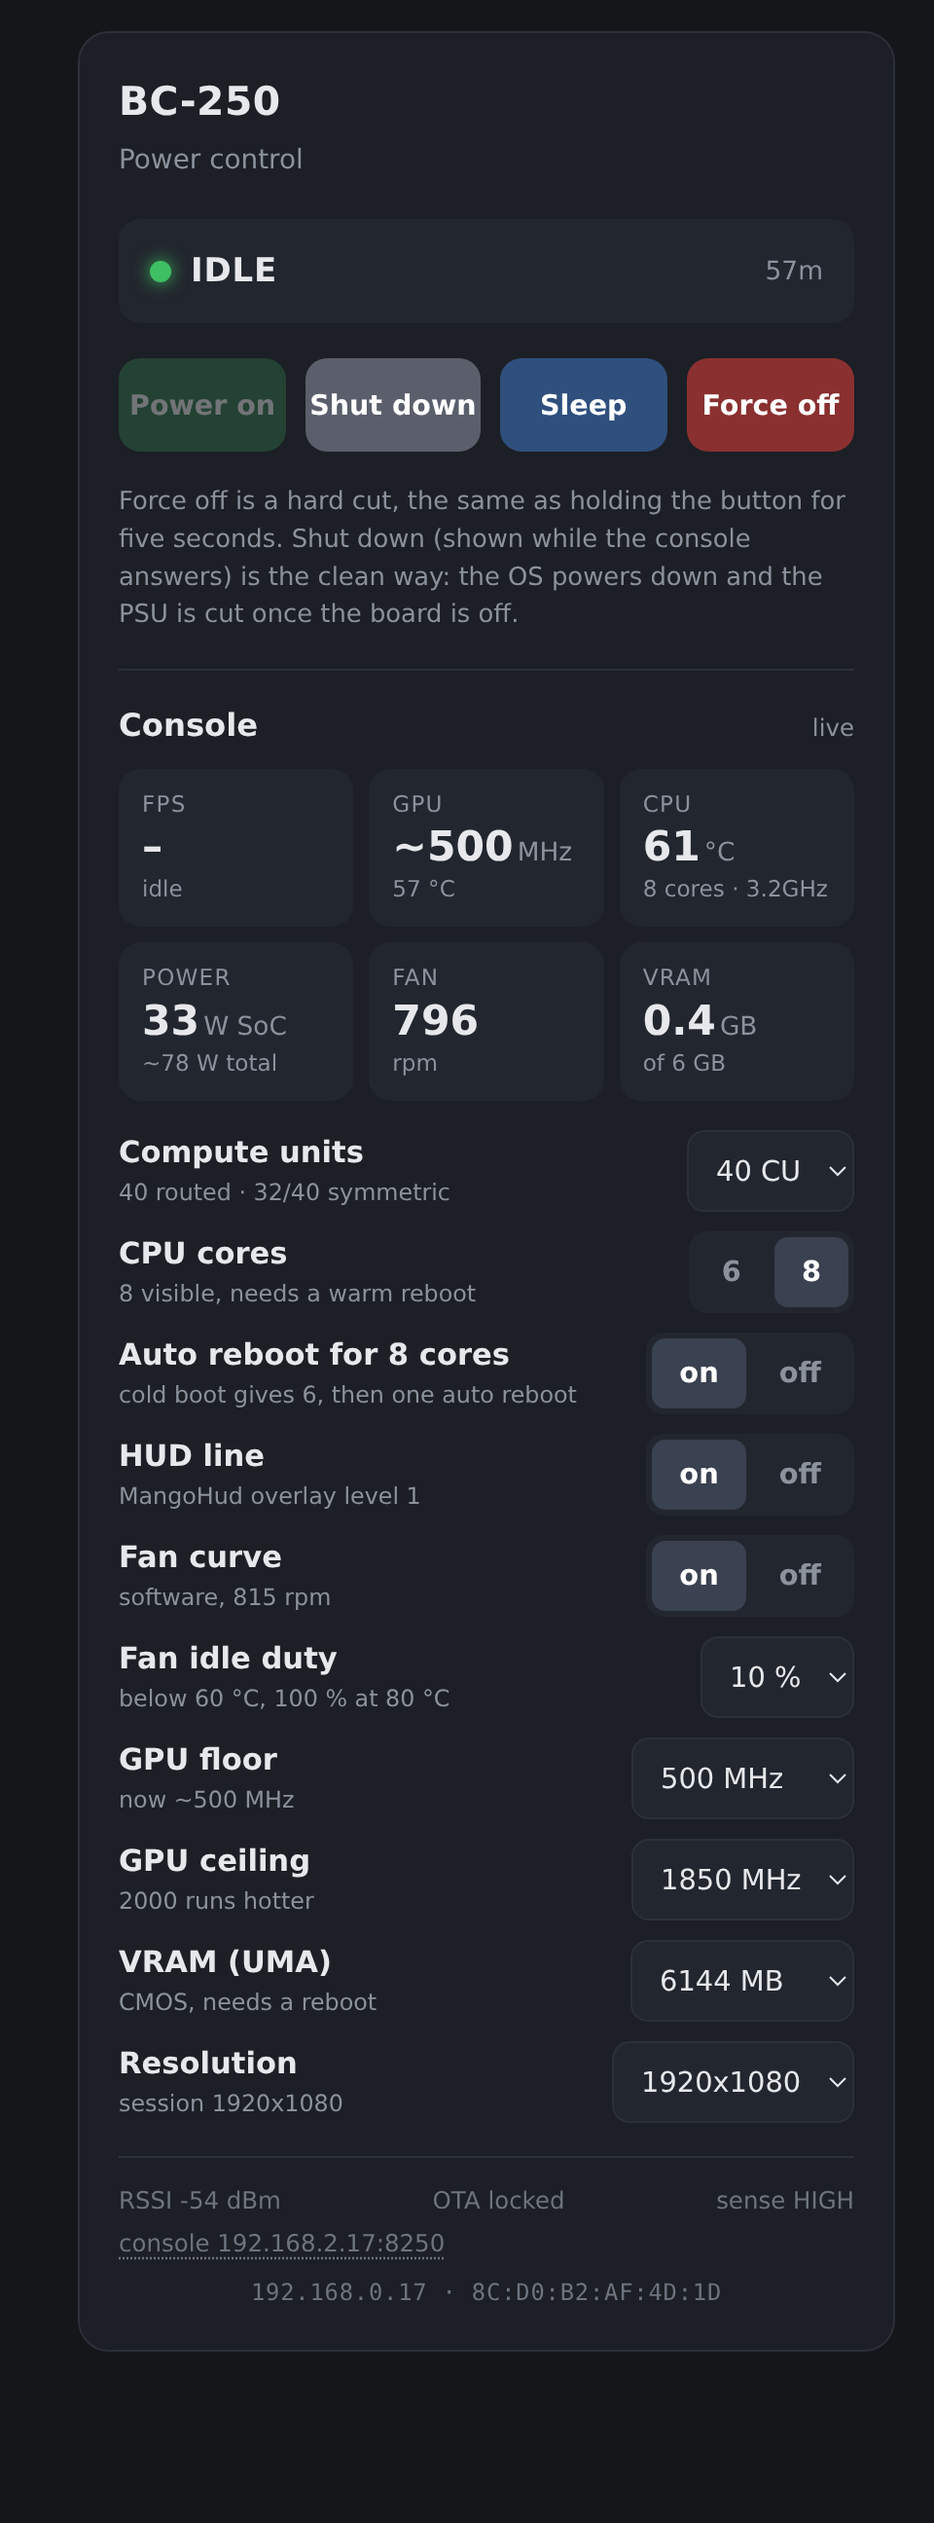
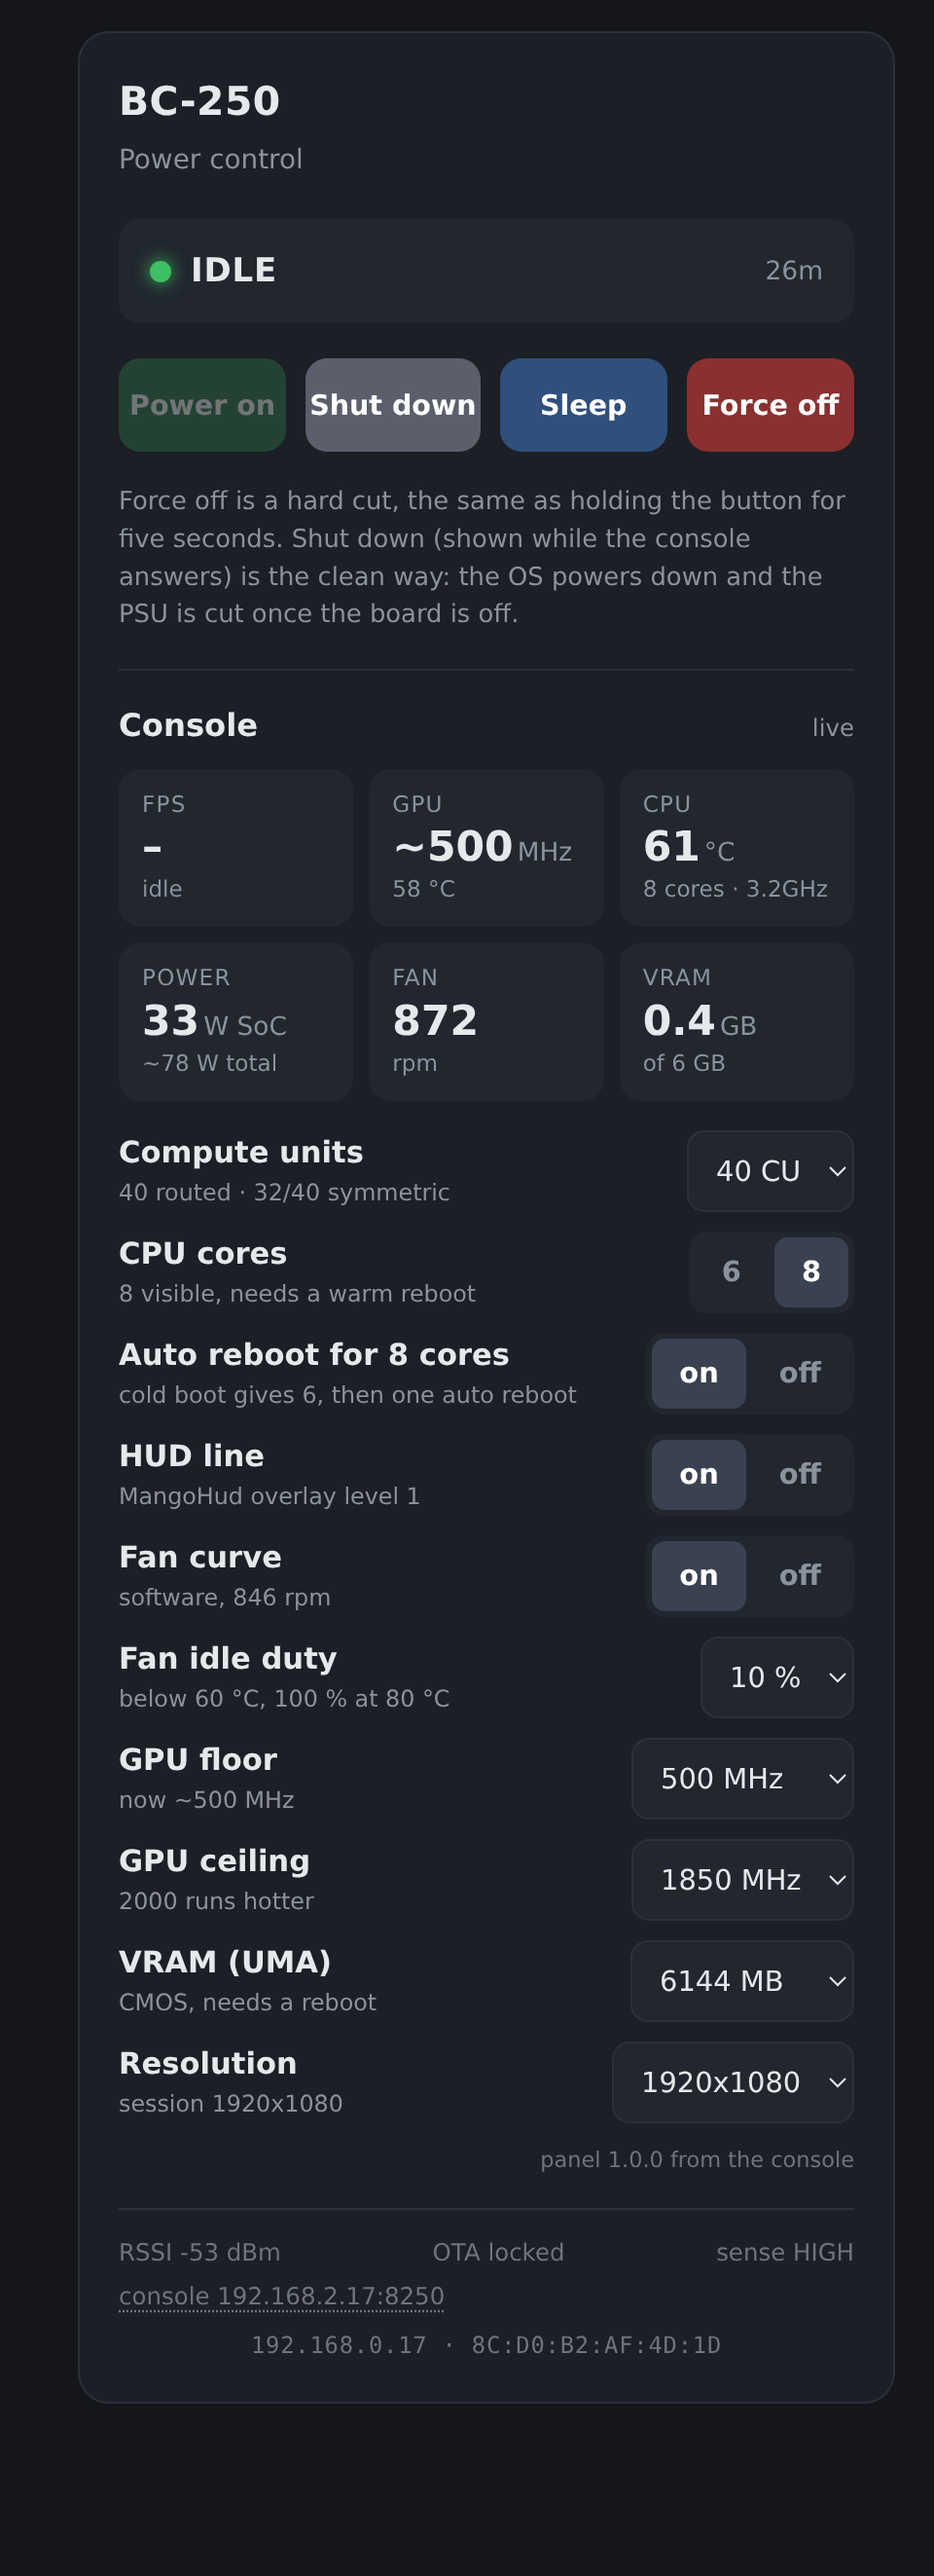
ESP32 page: the console panel is served by bc250-api (panel.js), no reflash for panel changes
Everything below the "Console" header (tiles, pending notice, tune switches) moves out of the
sketch into bc250-api/panel.js, served at GET /panel.js (installed to /usr/local/share/bc250-api
by install.sh) and loaded by the page once the API answers. Contract: bc250Panel.mount(root,
{api, refresh}) -> {update(status), busy(bool)}, documented in bc250-api/README.md. The firmware
keeps the state row, the four buttons, the address editor and the offline notice, and shows a
notice if the API has no panel.js yet. The panel prints its version in its last line.

Verified on the real ESP32 after an OTA: the page loads the panel from the console and renders
the same tiles and switches as before. Sketch page shrinks from ~13 KB to ~10 KB.

diff --git a/bc250-api/panel.js b/bc250-api/panel.js
@@ -1,0 +1,153 @@
+/* bc250-api console panel — served by bc250-api at /panel.js and loaded by the ESP32 power page
+ * once the API answers, so this part of the page updates with the console, not with a reflash.
+ *
+ * Contract with the page (keep it stable; the firmware only knows this):
+ *   window.bc250Panel.version                 string
+ *   window.bc250Panel.mount(root, opts) -> p  root: element to render into
+ *                                             opts.api: base URL of bc250-api (no trailing slash)
+ *                                             opts.refresh(): ask the page to poll /api/status now
+ *   p.update(status)                          called after every successful /api/status poll
+ *   p.busy(bool)                              page-level busy (sleep/shutdown in flight)
+ * The page keeps: state row, Power on / Shut down / Sleep / Force off, the address editor and the
+ * offline notice. Everything below the "Console" header is this file. No "//" restriction here.
+ */
+(function () {
+  'use strict';
+  var VERSION = '1.0.0';
+  var CSS = [
+    '.p-tiles{display:grid;grid-template-columns:repeat(auto-fit,minmax(104px,1fr));gap:8px}',
+    '.p-tile{background:#22262e;border-radius:11px;padding:10px 12px;min-width:0}',
+    '.p-tile .k{color:#8b929c;font-size:.68em;text-transform:uppercase;letter-spacing:.6px}',
+    '.p-tile .v{font-size:1.25em;font-weight:600;line-height:1.25;white-space:nowrap;overflow:hidden;text-overflow:ellipsis;font-variant-numeric:tabular-nums}',
+    '.p-tile .v small{font-size:.62em;font-weight:500;color:#8b929c;margin-left:2px}',
+    '.p-tile .s{color:#8b929c;font-size:.68em;white-space:nowrap;overflow:hidden;text-overflow:ellipsis}',
+    '.p-pend{display:none;margin:12px 0 0;padding:10px 12px;border-radius:11px;background:#3a2f16;color:#f0c674;font-size:.8em}',
+    '.p-pend.show{display:block}.p-pend .b{display:grid;gap:8px;margin-top:8px;grid-template-columns:repeat(auto-fit,minmax(140px,1fr))}',
+    '.p-pend button{width:100%;min-height:40px;padding:8px 12px;border:0;border-radius:11px;background:#6b5420;color:#fff;font:inherit;font-weight:600;font-size:.95em;cursor:pointer}',
+    '.p-tune{margin-top:14px;display:grid;grid-template-columns:minmax(0,1fr);gap:8px}',
+    '.p-row{display:flex;align-items:center;gap:10px;min-height:44px}.p-row .n{flex:1;min-width:0}',
+    '.p-row .n b{font-weight:600;font-size:.9em;display:block}',
+    '.p-row .n i{font-style:normal;color:#8b929c;font-size:.7em;display:block;white-space:nowrap;overflow:hidden;text-overflow:ellipsis}',
+    '.p-seg{display:flex;background:#22262e;border-radius:9px;padding:3px;gap:3px;flex:none}',
+    '.p-seg button{width:auto;min-height:36px;padding:6px 14px;border:0;border-radius:7px;background:transparent;color:#8b929c;font:inherit;font-weight:600;font-size:.85em;cursor:pointer}',
+    '.p-seg button.sel{background:#3a4150;color:#fff}',
+    '.p-tune select{flex:none;min-height:42px;padding:6px 10px;border:1px solid #2b3039;border-radius:9px;background:#22262e;color:#e6e8eb;font:inherit;font-size:.85em;max-width:48%}',
+    '.p-busy .p-tune,.p-busy .p-pend{opacity:.5;pointer-events:none}',
+    '.p-ver{margin-top:10px;color:#6d747e;font-size:.66em;text-align:right}'
+  ].join('\n');
+
+  var TILES = [
+    ['fps', 'FPS'], ['gmhz', 'GPU'], ['ctemp', 'CPU'], ['soc', 'Power'], ['fan', 'Fan'], ['vram', 'VRAM']
+  ];
+  var OPTS = {
+    cu: { n: 'Compute units', s: ['24', '26', '28', '30', '32', '34', '36', '38', '40'], u: ' CU', h: function (t) { return t.cu.live + ' routed · 32/40 symmetric'; } },
+    cores: { n: 'CPU cores', v: ['6', '8'], h: function (t) { return t.cores.visible + ' visible, needs a warm reboot'; } },
+    'cores-auto-reboot': { n: 'Auto reboot for 8 cores', v: ['on', 'off'], h: function () { return 'cold boot gives 6, then one auto reboot'; } },
+    hud: { n: 'HUD line', v: ['on', 'off'], h: function () { return 'MangoHud overlay level 1'; } },
+    'fan-curve': { n: 'Fan curve', v: ['on', 'off'], h: function (t) { return t.fan ? (t.fan.curve == 'on' ? (t.fan.active ? 'software, ' : 'guard stopped it, ') + t.fan.rpm + ' rpm' : 'BIOS curve, ' + t.fan.rpm + ' rpm') : 'no fan header'; } },
+    'fan-min': { n: 'Fan idle duty', s: ['5', '10', '15', '20', '30', '40'], u: ' %', h: function (t) { return t.fan ? 'below ' + t.fan.low_c + ' °C, 100 % at ' + t.fan.high_c + ' °C' : ''; } },
+    'gpu-min': { n: 'GPU floor', s: ['500', '700', '1000', '1175'], u: ' MHz', h: function (t) { return 'now ' + (t.gpu.cur_mhz_estimated ? '~' : '') + t.gpu.cur_mhz + ' MHz'; } },
+    'gpu-max': { n: 'GPU ceiling', s: ['1500', '1700', '1850', '2000'], u: ' MHz', h: function () { return '2000 runs hotter'; } },
+    uma: { n: 'VRAM (UMA)', s: ['2048', '4096', '6144', '8192', '10240', '12288'], u: ' MB', h: function () { return 'CMOS, needs a reboot'; } },
+    res: { n: 'Resolution', s: ['native', '1280x720', '1920x1080', '2560x1440', '3840x2160'], u: '', h: function (t) { return 'session ' + (t.res.session || '?'); } }
+  };
+  function cur(t, k) {
+    switch (k) {
+      case 'cu': return t.cu.config; case 'cores': return t.cores.config; case 'cores-auto-reboot': return t.cores.auto_reboot;
+      case 'hud': return t.hud.config; case 'fan-curve': return t.fan && t.fan.curve; case 'fan-min': return t.fan && t.fan.min;
+      case 'gpu-min': return t.gpu.config_min; case 'gpu-max': return t.gpu.config_max; case 'uma': return t.uma.config; case 'res': return t.res.config;
+    }
+  }
+  var fmt = function (v, d) { return v == null ? '–' : Number(v).toFixed(d || 0); };
+  var on = function (x) { return x && x !== '0' && x !== 0; };
+
+  function mount(root, opts) {
+    var api = opts.api, refresh = opts.refresh || function () {};
+    var busy = false, pageBusy = false, el = {};
+    if (!document.getElementById('bc250-panel-css')) {
+      var st = document.createElement('style'); st.id = 'bc250-panel-css'; st.textContent = CSS; document.head.appendChild(st);
+    }
+    root.innerHTML = '';
+    var tiles = document.createElement('div'); tiles.className = 'p-tiles';
+    TILES.forEach(function (t) {
+      var d = document.createElement('div'); d.className = 'p-tile';
+      d.innerHTML = '<div class="k">' + t[1] + '</div><div class="v" id="p-' + t[0] + '">–</div><div class="s" id="p-' + t[0] + 's"></div>';
+      tiles.appendChild(d);
+    });
+    var pend = document.createElement('div'); pend.className = 'p-pend';
+    pend.innerHTML = '<span id="p-pendt"></span><div class="b"><button id="p-rb">Warm reboot</button><button id="p-rs">Restart session</button></div>';
+    var tune = document.createElement('div'); tune.className = 'p-tune';
+    var ver = document.createElement('div'); ver.className = 'p-ver'; ver.textContent = 'panel ' + VERSION + ' from the console';
+    root.appendChild(tiles); root.appendChild(pend); root.appendChild(tune); root.appendChild(ver);
+    var $ = function (id) { return root.querySelector('#' + id); };
+
+    Object.keys(OPTS).forEach(function (k) {
+      var o = OPTS[k], row = document.createElement('div'); row.className = 'p-row';
+      row.innerHTML = '<div class="n"><b>' + o.n + '</b><i id="p-h-' + k + '"></i></div>';
+      if (o.v) {
+        var seg = document.createElement('div'); seg.className = 'p-seg'; seg.id = 'p-c-' + k;
+        o.v.forEach(function (v) { var b = document.createElement('button'); b.textContent = v; b.dataset.v = v; b.onclick = function () { set(k, v); }; seg.appendChild(b); });
+        row.appendChild(seg);
+      } else {
+        var sel = document.createElement('select'); sel.id = 'p-c-' + k;
+        o.s.forEach(function (v) { var e = document.createElement('option'); e.value = v; e.textContent = v + o.u; sel.appendChild(e); });
+        sel.onchange = function () { set(k, sel.value); }; row.appendChild(sel);
+      }
+      tune.appendChild(row);
+    });
+    $('p-rb').onclick = function () { act('/api/tune/reboot', 'Warm reboot the console now?'); };
+    $('p-rs').onclick = function () { act('/api/tune/restart-session', 'Restart the gaming session now? Steam will close.'); };
+
+    function setBusy(b) { busy = b; root.classList.toggle('p-busy', busy || pageBusy); }
+    function set(k, v) {
+      setBusy(true);
+      fetch(api + '/api/tune/set', { method: 'POST', headers: { 'Content-Type': 'application/json' }, body: JSON.stringify({ key: k, value: v }) })
+        .then(function (r) { return r.json(); }).then(function (j) { if (!j.ok) alert('bc250-tune: ' + (j.output || 'failed')); })
+        .catch(function () { alert('console unreachable'); })
+        .then(function () { setBusy(false); refresh(); });
+    }
+    function act(path, q) {
+      if (!confirm(q)) return; setBusy(true);
+      fetch(api + path, { method: 'POST' }).then(function (r) { return r.json(); }).then(function (j) { if (!j.ok) alert(j.output || 'failed'); })
+        .catch(function () {}).then(function () { setBusy(false); setTimeout(refresh, 3000); });
+    }
+    function tilesUpdate(d) {
+      $('p-fps').textContent = d.fps == null ? '–' : Math.round(d.fps);
+      $('p-fpss').textContent = d.game_running ? (d.game_running.name || 'app ' + d.game_running.appid) : (d.focus == 'steam' ? 'Steam' : 'idle');
+      $('p-gmhz').innerHTML = (d.gpu.mhz_estimated ? '~' : '') + fmt(d.gpu.mhz) + '<small>MHz</small>';
+      $('p-gmhzs').textContent = fmt(d.gpu.temp_c) + ' °C';
+      $('p-ctemp').innerHTML = fmt(d.cpu.temp_c) + '<small>°C</small>';
+      $('p-ctemps').textContent = d.cpu.cores + ' cores · ' + fmt(d.cpu.mhz / 1000, 1) + 'GHz';
+      $('p-soc').innerHTML = fmt(d.power.soc_w) + '<small>W SoC</small>';
+      $('p-socs').textContent = '~' + fmt(d.power.total_w) + ' W total';
+      $('p-fan').textContent = fmt(d.fan.rpm); $('p-fans').textContent = 'rpm';
+      $('p-vram').innerHTML = fmt(d.gpu.vram_used_mb / 1024, 1) + '<small>GB</small>';
+      $('p-vrams').textContent = 'of ' + fmt(d.gpu.vram_total_mb / 1024, 0) + ' GB';
+    }
+    function tuneUpdate(t) {
+      if (!t) { tune.style.display = 'none'; pend.className = 'p-pend'; return; }
+      tune.style.display = '';
+      if (busy) return;
+      Object.keys(OPTS).forEach(function (k) {
+        var o = OPTS[k], v = String(cur(t, k)), c = $('p-c-' + k);
+        $('p-h-' + k).textContent = o.h(t);
+        if (o.v) { Array.prototype.forEach.call(c.children, function (b) { b.className = b.dataset.v == v ? 'sel' : ''; }); }
+        else if (document.activeElement != c) {
+          if (!Array.prototype.some.call(c.options, function (e) { return e.value == v; })) { var e = document.createElement('option'); e.value = v; e.textContent = v + o.u; c.appendChild(e); }
+          c.value = v;
+        }
+      });
+      var p = t.pending || {}, parts = [];
+      if (on(p.reboot)) parts.push(String(p.reboot).replace(/;\s*$/, ''));
+      if (on(p.session_restart)) parts.push('gaming session restart (resolution)');
+      if (on(p.cold_boot)) parts.push('cold boot (power off) to return to 6 cores');
+      pend.className = 'p-pend' + (parts.length ? ' show' : ''); $('p-pendt').textContent = 'Pending: ' + parts.join(' · ');
+      $('p-rb').style.display = on(p.reboot) ? '' : 'none'; $('p-rs').style.display = on(p.session_restart) ? '' : 'none';
+    }
+    return {
+      update: function (d) { tilesUpdate(d); tuneUpdate(d.tune); },
+      busy: function (b) { pageBusy = !!b; root.classList.toggle('p-busy', busy || pageBusy); }
+    };
+  }
+  window.bc250Panel = { version: VERSION, mount: mount };
+})();

diff --git a/AGENTS.md b/AGENTS.md
@@ -11,7 +11,7 @@ depend on each other.
 | `decky-bc250-tune/bc250-tune` | one bash script: every tuning switch, the boot-time re-apply (`apply --boot`), the fan-curve daemon (`fan-daemon`), `status --json` | the console, as root |
 | `decky-bc250-tune/decky-plugin/` | Decky plugin that only calls `bc250-tune`; `src/index.tsx` → `dist/index.js` (committed) | the console |
 | `decky-bc250-sleep/` | Decky plugin: fake sleep, wake on input, quiet fans, control socket for the API; `main.py` + `src/index.tsx` → `dist/index.js` (committed) | the console |
-| `bc250-api/` | REST service (Python stdlib) on port 8250: stats, fps from gamescope's stats pipe, tune switches, sleep/wake | the console |
+| `bc250-api/` | REST service (Python stdlib) on port 8250: stats, fps from gamescope's stats pipe, tune switches, sleep/wake, poweroff; `panel.js` = the console part of the ESP32 page, served at `/panel.js` | the console |
 | `esp32-power-control/` | ESP32-C3 sketch (`bc250_power_opto.ino`, the web page is a raw string inside it) and `flash.sh` | the ESP32; `flash.sh` on a laptop |
 | `install.sh` | the `curl \| bash` guided installer | console or laptop |
 | `images/esp32-gui.png` | screenshot of the ESP32 page, embedded in the README | |
@@ -21,9 +21,14 @@ depend on each other.
 
 * **A switch touches five places.** Adding or changing a tune option means: the script (defaults,
   `load_conf`, `write_conf`, `validate_conf`, `cmd_set` keys, `cmd_apply`, the JSON and text status,
-  the whiptail menu, `VERSION`), the Decky plugin (`index.tsx`, then rebuild `dist/index.js`), the ESP32
-  page (`OPTS` and `cur()` in the sketch), `bc250-api` (`TUNE_KEYS` and `VALUE_OK`), and the docs
-  (the switch tables in `README.md` and `decky-bc250-tune/README.md`). Then the screenshot.
+  the whiptail menu, `VERSION`), the Decky plugin (`index.tsx`, then rebuild `dist/index.js`), the
+  console panel (`OPTS` and `cur()` in `bc250-api/panel.js`, bump its `VERSION`), `bc250-api`
+  (`TUNE_KEYS` and `VALUE_OK`), and the docs (the switch tables in `README.md` and
+  `decky-bc250-tune/README.md`). Then the screenshot. None of this needs an ESP32 reflash.
+* **The ESP32 sketch is for the ESP32's own things.** State row, the four buttons, the address
+  editor, the offline notice, and the loader that pulls `panel.js` from the console. The contract
+  between them (`bc250Panel.mount/update/busy`, documented in `bc250-api/README.md`) is what makes
+  reflashes rare; do not put console-side UI back into the sketch.
 * **Docs and installer move with the code.** Any new service, script, option or install step gets its
   README paragraph, its row in the tables, a line in `install.sh` if it changes what is installed,
   and a mention in the installer's closing hand-off list if a human has to do something.

diff --git a/bc250-api/README.md b/bc250-api/README.md
@@ -14,6 +14,7 @@ POST /api/tune/restart-session   -> `bc250-tune restart-session` (for a resoluti
 POST /api/sleep                  fake sleep through the BC-250 Sleep plugin (its control socket)
 POST /api/wake                   wake from it
 POST /api/poweroff               clean shutdown (systemctl poweroff); the ESP32 cuts the PSU once the board is down
+GET  /panel.js                   the console panel (tiles, pending actions, tune switches) as a script the ESP32 page loads
 ```
 
 Port 8250, JSON, CORS open (`Access-Control-Allow-Origin: *`) so a page served by another host
@@ -58,6 +59,24 @@ switches need it.
 `/api/status` answers in a few milliseconds: the sysfs sampler, the pipe reader and the tune
 refresh run in their own threads and the request only copies the latest snapshot.
 
+## The panel comes from the console
+
+Everything below the **Console** header on the ESP32 page is `panel.js`, served by this service and
+loaded by the page once the API answers. Changing tiles or switches therefore ships with
+`bc250-api` (re-run `install.sh` or the guided installer), not with an ESP32 reflash; the firmware
+only keeps the state row, the four buttons, the address editor and the offline notice. The contract
+the firmware relies on, keep it stable:
+
+```js
+window.bc250Panel.version                // string
+window.bc250Panel.mount(root, {api, refresh}) // renders into `root`; returns a handle
+handle.update(status)                    // after every successful GET /api/status
+handle.busy(bool)                        // page-level busy (sleep / shutdown in flight)
+```
+
+The panel shows its version in its last line, so a page whose panel looks stale is one reload away
+from the current one (`Cache-Control: no-store`).
+
 ## Install
 
 ```bash
@@ -83,4 +102,5 @@ stats and flip the tune switches, including a warm reboot. Do not expose port 82
 |------|------|
 | `bc250-api` | the service (Python 3, standard library only) |
 | `bc250-api.service` | systemd unit, `Restart=always` |
+| `panel.js` | the console panel the ESP32 page loads (installed to `/usr/local/share/bc250-api/`) |
 | `install.sh` | copy + enable |

diff --git a/README.md b/README.md
@@ -696,7 +696,10 @@ answers, the status line refines the ESP32's `RUNNING` into **RUNNING** (a game 
 **IDLE** (on, no game) or **SLEEP** (the fake sleep of §4.5 holds it, blue dot), and the button row
 grows to **Power on · Shut down · Sleep · Force off**: Shut down is a clean `systemctl poweroff`
 through `bc250-api` (the ESP32 cuts the PSU once the board reports down), Sleep / Wake drives the
-fake sleep. Tiles show FPS and the
+fake sleep. Everything below the **Console** header (the tiles, the pending notice, the switches)
+is `panel.js`, served by `bc250-api` and loaded by the page once the API answers, so that part
+updates with the console and never needs a reflash; the firmware keeps only the state row, the four
+buttons, the address editor and the offline notice. Tiles show FPS and the
 running game, GPU clock and temperature, CPU temperature with cores and clock, SoC and estimated
 total power, fan rpm and VRAM use. Below them are the `bc250-tune` switches (compute units, cores,
 HUD, GPU floor and ceiling, VRAM split, resolution): a tap runs `bc250-tune set` on the console, and
